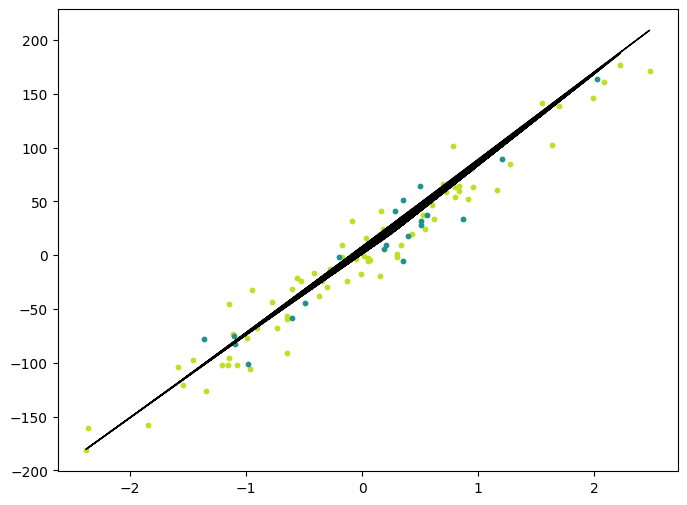
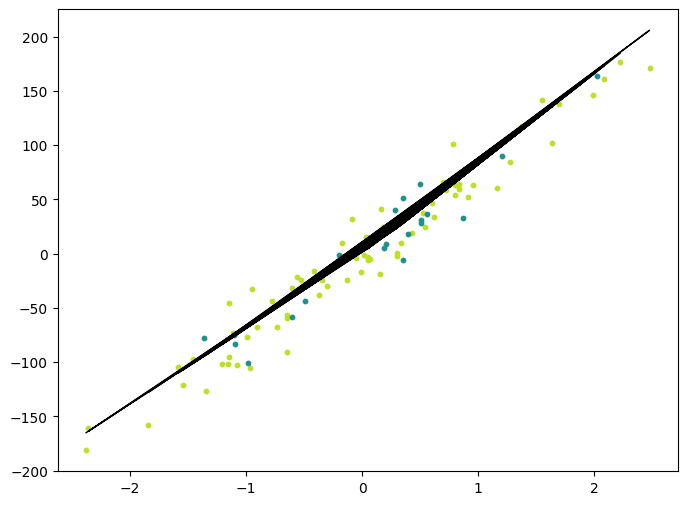
add logistic reg to notes

diff --git a/docs/notes/ml-algos-numpy-torch.html b/docs/notes/ml-algos-numpy-torch.html
@@ -207,17 +207,18 @@ pre > code.sourceCode > span > a:first-child::before { text-decoration: underlin
 <ul>
 <li>The goal of this is to practice building basic ML algorithms from scratch in numpy/PyTorch. I use <a href="https://www.youtube.com/playlist?list=PLqnslRFeH2Upcrywf-u2etjdxxkL8nl7E">Machine Learning from Scratch</a> series as a starting point, generally watching the first part of the video to review the setup, then building the algorithms out myself, looking at the repo for test cases/if stuck.</li>
 </ul>
-<div id="cell-2" class="cell" data-execution_count="65">
+<div id="cell-2" class="cell" data-execution_count="1">
 <div class="sourceCode cell-code" id="cb1"><pre class="sourceCode python code-with-copy"><code class="sourceCode python"><span id="cb1-1"><a href="#cb1-1" aria-hidden="true" tabindex="-1"></a><span class="im">import</span> numpy <span class="im">as</span> np</span>
 <span id="cb1-2"><a href="#cb1-2" aria-hidden="true" tabindex="-1"></a>np.random.seed(<span class="dv">42</span>)</span>
 <span id="cb1-3"><a href="#cb1-3" aria-hidden="true" tabindex="-1"></a><span class="im">import</span> matplotlib.pyplot <span class="im">as</span> plt</span>
 <span id="cb1-4"><a href="#cb1-4" aria-hidden="true" tabindex="-1"></a><span class="im">import</span> torch</span>
-<span id="cb1-5"><a href="#cb1-5" aria-hidden="true" tabindex="-1"></a><span class="im">from</span> sklearn <span class="im">import</span> datasets</span>
-<span id="cb1-6"><a href="#cb1-6" aria-hidden="true" tabindex="-1"></a><span class="im">from</span> sklearn.model_selection <span class="im">import</span> train_test_split</span>
-<span id="cb1-7"><a href="#cb1-7" aria-hidden="true" tabindex="-1"></a><span class="im">from</span> matplotlib.colors <span class="im">import</span> ListedColormap</span>
-<span id="cb1-8"><a href="#cb1-8" aria-hidden="true" tabindex="-1"></a><span class="im">import</span> collections</span>
-<span id="cb1-9"><a href="#cb1-9" aria-hidden="true" tabindex="-1"></a><span class="im">from</span> sklearn.datasets <span class="im">import</span> make_blobs</span>
-<span id="cb1-10"><a href="#cb1-10" aria-hidden="true" tabindex="-1"></a><span class="im">from</span> time <span class="im">import</span> perf_counter</span></code><button title="Copy to Clipboard" class="code-copy-button"><i class="bi"></i></button></pre></div>
+<span id="cb1-5"><a href="#cb1-5" aria-hidden="true" tabindex="-1"></a><span class="im">import</span> torch.nn <span class="im">as</span> nn</span>
+<span id="cb1-6"><a href="#cb1-6" aria-hidden="true" tabindex="-1"></a><span class="im">from</span> sklearn <span class="im">import</span> datasets</span>
+<span id="cb1-7"><a href="#cb1-7" aria-hidden="true" tabindex="-1"></a><span class="im">from</span> sklearn.model_selection <span class="im">import</span> train_test_split</span>
+<span id="cb1-8"><a href="#cb1-8" aria-hidden="true" tabindex="-1"></a><span class="im">from</span> matplotlib.colors <span class="im">import</span> ListedColormap</span>
+<span id="cb1-9"><a href="#cb1-9" aria-hidden="true" tabindex="-1"></a><span class="im">import</span> collections</span>
+<span id="cb1-10"><a href="#cb1-10" aria-hidden="true" tabindex="-1"></a><span class="im">from</span> sklearn.datasets <span class="im">import</span> make_blobs</span>
+<span id="cb1-11"><a href="#cb1-11" aria-hidden="true" tabindex="-1"></a><span class="im">from</span> time <span class="im">import</span> perf_counter</span></code><button title="Copy to Clipboard" class="code-copy-button"><i class="bi"></i></button></pre></div>
 </div>
 <section id="knn" class="level2">
 <h2 class="anchored" data-anchor-id="knn">KNN</h2>
@@ -973,22 +974,22 @@ Accuracy: 0.924751527892842</code></pre>
 <p>Thus, while the shapes may become mathematically compatible, the implicit behavior of broadcasting and element-wise operations fundamentally leads to differing gradient flows. Clarity in tensor shapes is incredibly important for ensuring that operations function as anticipated in deep learning frameworks like PyTorch.</p></li>
 <li><p>I had <code>loss = criterion(y_pred.view(-1),y_train)</code> without the .view(-1) at first, which led to just the intercept being estimated! (got a horizontal line as prediction). It seems that there’s are intricacies with broadcasting in loss calculations. It’s best to explicitly convert tensors to the right shape so that PyTorch computes the gradients correctly.</p></li>
 </ul>
-<div id="cell-36" class="cell" data-execution_count="139">
+<div id="cell-36" class="cell" data-execution_count="177">
 <div class="sourceCode cell-code" id="cb36"><pre class="sourceCode python code-with-copy"><code class="sourceCode python"><span id="cb36-1"><a href="#cb36-1" aria-hidden="true" tabindex="-1"></a><span class="im">import</span> torch.nn <span class="im">as</span> nn</span>
 <span id="cb36-2"><a href="#cb36-2" aria-hidden="true" tabindex="-1"></a><span class="kw">class</span> SimpleNN(nn.Module):</span>
 <span id="cb36-3"><a href="#cb36-3" aria-hidden="true" tabindex="-1"></a>    <span class="co">"""Can use torch.autograd automatic differentiation for gradient updates"""</span></span>
 <span id="cb36-4"><a href="#cb36-4" aria-hidden="true" tabindex="-1"></a>    <span class="kw">def</span> <span class="fu">__init__</span>(<span class="va">self</span>, input_dim, output_dim<span class="op">=</span><span class="dv">1</span>,hidden_dim <span class="op">=</span><span class="dv">10</span>):</span>
 <span id="cb36-5"><a href="#cb36-5" aria-hidden="true" tabindex="-1"></a>        <span class="bu">super</span>().<span class="fu">__init__</span>()</span>
 <span id="cb36-6"><a href="#cb36-6" aria-hidden="true" tabindex="-1"></a>        <span class="va">self</span>.ln1 <span class="op">=</span> nn.Linear(input_dim,hidden_dim)</span>
-<span id="cb36-7"><a href="#cb36-7" aria-hidden="true" tabindex="-1"></a>        <span class="va">self</span>.sigm <span class="op">=</span> nn.ReLU()</span>
+<span id="cb36-7"><a href="#cb36-7" aria-hidden="true" tabindex="-1"></a>        <span class="va">self</span>.relu <span class="op">=</span> nn.ReLU()</span>
 <span id="cb36-8"><a href="#cb36-8" aria-hidden="true" tabindex="-1"></a>        <span class="va">self</span>.ln2 <span class="op">=</span> nn.Linear(hidden_dim,output_dim)</span>
 <span id="cb36-9"><a href="#cb36-9" aria-hidden="true" tabindex="-1"></a></span>
 <span id="cb36-10"><a href="#cb36-10" aria-hidden="true" tabindex="-1"></a>    <span class="kw">def</span> forward(<span class="va">self</span>, X):</span>
 <span id="cb36-11"><a href="#cb36-11" aria-hidden="true" tabindex="-1"></a>        x <span class="op">=</span> <span class="va">self</span>.ln1(X)</span>
-<span id="cb36-12"><a href="#cb36-12" aria-hidden="true" tabindex="-1"></a>        x <span class="op">=</span> <span class="va">self</span>.ln2(<span class="va">self</span>.sigm(x))</span>
+<span id="cb36-12"><a href="#cb36-12" aria-hidden="true" tabindex="-1"></a>        x <span class="op">=</span> <span class="va">self</span>.ln2(<span class="va">self</span>.relu(x))</span>
 <span id="cb36-13"><a href="#cb36-13" aria-hidden="true" tabindex="-1"></a>        <span class="cf">return</span> x</span></code><button title="Copy to Clipboard" class="code-copy-button"><i class="bi"></i></button></pre></div>
 </div>
-<div id="cell-37" class="cell" data-execution_count="174">
+<div id="cell-37" class="cell" data-execution_count="178">
 <div class="sourceCode cell-code" id="cb37"><pre class="sourceCode python code-with-copy"><code class="sourceCode python"><span id="cb37-1"><a href="#cb37-1" aria-hidden="true" tabindex="-1"></a>model <span class="op">=</span> SimpleNN(input_dim<span class="op">=</span>X.shape[<span class="dv">1</span>])</span>
 <span id="cb37-2"><a href="#cb37-2" aria-hidden="true" tabindex="-1"></a></span>
 <span id="cb37-3"><a href="#cb37-3" aria-hidden="true" tabindex="-1"></a><span class="co"># Training loop</span></span>
@@ -1023,8 +1024,8 @@ Accuracy: 0.924751527892842</code></pre>
 <span id="cb37-32"><a href="#cb37-32" aria-hidden="true" tabindex="-1"></a>plt.plot(X.detach().numpy(), y_pred_line, color<span class="op">=</span><span class="st">"black"</span>, linewidth<span class="op">=</span><span class="dv">1</span>, label<span class="op">=</span><span class="st">"Prediction"</span>)</span>
 <span id="cb37-33"><a href="#cb37-33" aria-hidden="true" tabindex="-1"></a>plt.show()</span></code><button title="Copy to Clipboard" class="code-copy-button"><i class="bi"></i></button></pre></div>
 <div class="cell-output cell-output-stdout">
-<pre><code>MSE: 341.54935
-Accuracy: 0.9159475311667739</code></pre>
+<pre><code>MSE: 341.73175
+Accuracy: 0.9159026386036382</code></pre>
 </div>
 <div class="cell-output cell-output-display">
 <div>
@@ -1032,6 +1033,117 @@ Accuracy: 0.9159475311667739</code></pre>
 <p><img src="ml-algos-numpy-torch_files/figure-html/cell-25-output-2.png" class="img-fluid figure-img"></p>
 </figure>
 </div>
+</div>
+</div>
+</section>
+<section id="logistic-regression" class="level2">
+<h2 class="anchored" data-anchor-id="logistic-regression">Logistic Regression</h2>
+<ul>
+<li>Gradient updates are same as in linear regression, but since the targets are 0/1, convert predictions to probabilities via sigmoid.</li>
+</ul>
+<div id="cell-40" class="cell" data-execution_count="162">
+<div class="sourceCode cell-code" id="cb39"><pre class="sourceCode python code-with-copy"><code class="sourceCode python"><span id="cb39-1"><a href="#cb39-1" aria-hidden="true" tabindex="-1"></a><span class="kw">class</span> LogisticRegression:</span>
+<span id="cb39-2"><a href="#cb39-2" aria-hidden="true" tabindex="-1"></a>    <span class="kw">def</span> <span class="fu">__init__</span>(<span class="va">self</span>, learning_rate<span class="op">=</span><span class="fl">0.001</span>, n_iters<span class="op">=</span><span class="dv">1000</span>):</span>
+<span id="cb39-3"><a href="#cb39-3" aria-hidden="true" tabindex="-1"></a>        <span class="va">self</span>.lr <span class="op">=</span> learning_rate</span>
+<span id="cb39-4"><a href="#cb39-4" aria-hidden="true" tabindex="-1"></a>        <span class="va">self</span>.n_iters <span class="op">=</span> n_iters</span>
+<span id="cb39-5"><a href="#cb39-5" aria-hidden="true" tabindex="-1"></a>        <span class="va">self</span>.weights <span class="op">=</span> <span class="va">None</span></span>
+<span id="cb39-6"><a href="#cb39-6" aria-hidden="true" tabindex="-1"></a>        <span class="va">self</span>.bias <span class="op">=</span> <span class="va">None</span></span>
+<span id="cb39-7"><a href="#cb39-7" aria-hidden="true" tabindex="-1"></a></span>
+<span id="cb39-8"><a href="#cb39-8" aria-hidden="true" tabindex="-1"></a>    <span class="kw">def</span> fit(<span class="va">self</span>, X, y):</span>
+<span id="cb39-9"><a href="#cb39-9" aria-hidden="true" tabindex="-1"></a>       <span class="va">self</span>.n_examples, <span class="va">self</span>.n_feats <span class="op">=</span> X.shape</span>
+<span id="cb39-10"><a href="#cb39-10" aria-hidden="true" tabindex="-1"></a>       <span class="va">self</span>.weights <span class="op">=</span> np.zeros(<span class="va">self</span>.n_feats)</span>
+<span id="cb39-11"><a href="#cb39-11" aria-hidden="true" tabindex="-1"></a>       <span class="va">self</span>.bias <span class="op">=</span> <span class="dv">0</span></span>
+<span id="cb39-12"><a href="#cb39-12" aria-hidden="true" tabindex="-1"></a>       <span class="cf">for</span> _ <span class="kw">in</span> <span class="bu">range</span>(<span class="va">self</span>.n_iters):</span>
+<span id="cb39-13"><a href="#cb39-13" aria-hidden="true" tabindex="-1"></a>           y_pred <span class="op">=</span> <span class="va">self</span>._sigmoid(X<span class="op">@</span>self.weights<span class="op">+</span><span class="va">self</span>.bias)</span>
+<span id="cb39-14"><a href="#cb39-14" aria-hidden="true" tabindex="-1"></a></span>
+<span id="cb39-15"><a href="#cb39-15" aria-hidden="true" tabindex="-1"></a>           dw <span class="op">=</span> (<span class="dv">2</span><span class="op">/</span><span class="va">self</span>.n_examples)<span class="op">*</span>np.dot(X.T,y_pred<span class="op">-</span>y)</span>
+<span id="cb39-16"><a href="#cb39-16" aria-hidden="true" tabindex="-1"></a>           db <span class="op">=</span> (<span class="dv">2</span><span class="op">/</span><span class="va">self</span>.n_examples)<span class="op">*</span>np.<span class="bu">sum</span>(y_pred<span class="op">-</span>y)</span>
+<span id="cb39-17"><a href="#cb39-17" aria-hidden="true" tabindex="-1"></a></span>
+<span id="cb39-18"><a href="#cb39-18" aria-hidden="true" tabindex="-1"></a>           <span class="va">self</span>.weights <span class="op">-=</span> <span class="va">self</span>.lr <span class="op">*</span> dw</span>
+<span id="cb39-19"><a href="#cb39-19" aria-hidden="true" tabindex="-1"></a>           <span class="va">self</span>.bias <span class="op">-=</span> <span class="va">self</span>.lr <span class="op">*</span> db</span>
+<span id="cb39-20"><a href="#cb39-20" aria-hidden="true" tabindex="-1"></a></span>
+<span id="cb39-21"><a href="#cb39-21" aria-hidden="true" tabindex="-1"></a>    <span class="kw">def</span> predict(<span class="va">self</span>, X):</span>
+<span id="cb39-22"><a href="#cb39-22" aria-hidden="true" tabindex="-1"></a>        probs <span class="op">=</span> <span class="va">self</span>._sigmoid(X<span class="op">@</span>self.weights<span class="op">+</span><span class="va">self</span>.bias)</span>
+<span id="cb39-23"><a href="#cb39-23" aria-hidden="true" tabindex="-1"></a>        <span class="cf">return</span> np.array([<span class="dv">1</span> <span class="cf">if</span> prob <span class="op">&gt;</span> <span class="fl">0.5</span> <span class="cf">else</span> <span class="dv">0</span> <span class="cf">for</span> prob <span class="kw">in</span> probs ])</span>
+<span id="cb39-24"><a href="#cb39-24" aria-hidden="true" tabindex="-1"></a></span>
+<span id="cb39-25"><a href="#cb39-25" aria-hidden="true" tabindex="-1"></a>    <span class="kw">def</span> _sigmoid(<span class="va">self</span>, x):</span>
+<span id="cb39-26"><a href="#cb39-26" aria-hidden="true" tabindex="-1"></a>        <span class="cf">return</span> <span class="dv">1</span><span class="op">/</span>(<span class="dv">1</span><span class="op">+</span>np.exp(<span class="op">-</span>x))</span>
+<span id="cb39-27"><a href="#cb39-27" aria-hidden="true" tabindex="-1"></a></span>
+<span id="cb39-28"><a href="#cb39-28" aria-hidden="true" tabindex="-1"></a></span>
+<span id="cb39-29"><a href="#cb39-29" aria-hidden="true" tabindex="-1"></a><span class="co"># Testing</span></span>
+<span id="cb39-30"><a href="#cb39-30" aria-hidden="true" tabindex="-1"></a><span class="cf">if</span> <span class="va">__name__</span> <span class="op">==</span> <span class="st">"__main__"</span>:</span>
+<span id="cb39-31"><a href="#cb39-31" aria-hidden="true" tabindex="-1"></a>    <span class="co"># Imports</span></span>
+<span id="cb39-32"><a href="#cb39-32" aria-hidden="true" tabindex="-1"></a>    <span class="im">from</span> sklearn.model_selection <span class="im">import</span> train_test_split</span>
+<span id="cb39-33"><a href="#cb39-33" aria-hidden="true" tabindex="-1"></a>    <span class="im">from</span> sklearn <span class="im">import</span> datasets</span>
+<span id="cb39-34"><a href="#cb39-34" aria-hidden="true" tabindex="-1"></a></span>
+<span id="cb39-35"><a href="#cb39-35" aria-hidden="true" tabindex="-1"></a>    <span class="kw">def</span> accuracy(y_true, y_pred):</span>
+<span id="cb39-36"><a href="#cb39-36" aria-hidden="true" tabindex="-1"></a>        accuracy <span class="op">=</span> np.<span class="bu">sum</span>(y_true <span class="op">==</span> y_pred) <span class="op">/</span> <span class="bu">len</span>(y_true)</span>
+<span id="cb39-37"><a href="#cb39-37" aria-hidden="true" tabindex="-1"></a>        <span class="cf">return</span> accuracy</span>
+<span id="cb39-38"><a href="#cb39-38" aria-hidden="true" tabindex="-1"></a></span>
+<span id="cb39-39"><a href="#cb39-39" aria-hidden="true" tabindex="-1"></a>    bc <span class="op">=</span> datasets.load_breast_cancer()</span>
+<span id="cb39-40"><a href="#cb39-40" aria-hidden="true" tabindex="-1"></a>    X, y <span class="op">=</span> bc.data, bc.target</span>
+<span id="cb39-41"><a href="#cb39-41" aria-hidden="true" tabindex="-1"></a>    X_train, X_test, y_train, y_test <span class="op">=</span> train_test_split(</span>
+<span id="cb39-42"><a href="#cb39-42" aria-hidden="true" tabindex="-1"></a>        X, y, test_size<span class="op">=</span><span class="fl">0.2</span>, random_state<span class="op">=</span><span class="dv">1234</span></span>
+<span id="cb39-43"><a href="#cb39-43" aria-hidden="true" tabindex="-1"></a>    )</span>
+<span id="cb39-44"><a href="#cb39-44" aria-hidden="true" tabindex="-1"></a></span>
+<span id="cb39-45"><a href="#cb39-45" aria-hidden="true" tabindex="-1"></a>    regressor <span class="op">=</span> LogisticRegression(learning_rate<span class="op">=</span><span class="fl">0.00005</span>, n_iters<span class="op">=</span><span class="dv">1000</span>) <span class="co"># think they forgot 2x in grad updates, halving lr to get same accuracy</span></span>
+<span id="cb39-46"><a href="#cb39-46" aria-hidden="true" tabindex="-1"></a>    regressor.fit(X_train, y_train)</span>
+<span id="cb39-47"><a href="#cb39-47" aria-hidden="true" tabindex="-1"></a>    predictions <span class="op">=</span> regressor.predict(X_test)</span>
+<span id="cb39-48"><a href="#cb39-48" aria-hidden="true" tabindex="-1"></a></span>
+<span id="cb39-49"><a href="#cb39-49" aria-hidden="true" tabindex="-1"></a>    <span class="bu">print</span>(<span class="st">"LR classification accuracy:"</span>, accuracy(y_test, predictions))</span></code><button title="Copy to Clipboard" class="code-copy-button"><i class="bi"></i></button></pre></div>
+<div class="cell-output cell-output-stdout">
+<pre><code>LR classification accuracy: 0.9298245614035088</code></pre>
+</div>
+</div>
+<ul>
+<li>PyTorch version is not very numerically stable, increased precision to <code>torch.float64</code> to match that of numpy, experimented with different random seeds until found one of the better ones. <code>BCEWithLogitsLoss</code> may help the issue in the future. Either way, there seems to be a about 3 different ‘valleys’ where the algorithm ends up ‘converging’, likely local minima on the loss surface.</li>
+</ul>
+<div id="cell-42" class="cell" data-execution_count="30">
+<div class="sourceCode cell-code" id="cb41"><pre class="sourceCode python code-with-copy"><code class="sourceCode python"><span id="cb41-1"><a href="#cb41-1" aria-hidden="true" tabindex="-1"></a><span class="kw">class</span> LogisticRegressionTorch(nn.Module):</span>
+<span id="cb41-2"><a href="#cb41-2" aria-hidden="true" tabindex="-1"></a>    <span class="kw">def</span> <span class="fu">__init__</span>(<span class="va">self</span>, input_dims):</span>
+<span id="cb41-3"><a href="#cb41-3" aria-hidden="true" tabindex="-1"></a>        <span class="bu">super</span>().<span class="fu">__init__</span>()</span>
+<span id="cb41-4"><a href="#cb41-4" aria-hidden="true" tabindex="-1"></a>        <span class="va">self</span>.ff <span class="op">=</span> nn.Linear(input_dims,<span class="dv">1</span>,dtype<span class="op">=</span>torch.float64)</span>
+<span id="cb41-5"><a href="#cb41-5" aria-hidden="true" tabindex="-1"></a>        <span class="va">self</span>.sigm <span class="op">=</span> nn.Sigmoid()</span>
+<span id="cb41-6"><a href="#cb41-6" aria-hidden="true" tabindex="-1"></a></span>
+<span id="cb41-7"><a href="#cb41-7" aria-hidden="true" tabindex="-1"></a>    <span class="kw">def</span> forward(<span class="va">self</span>, X):</span>
+<span id="cb41-8"><a href="#cb41-8" aria-hidden="true" tabindex="-1"></a>       <span class="cf">return</span> <span class="va">self</span>.sigm(<span class="va">self</span>.ff(X))</span>
+<span id="cb41-9"><a href="#cb41-9" aria-hidden="true" tabindex="-1"></a></span>
+<span id="cb41-10"><a href="#cb41-10" aria-hidden="true" tabindex="-1"></a></span>
+<span id="cb41-11"><a href="#cb41-11" aria-hidden="true" tabindex="-1"></a><span class="co"># Imports</span></span>
+<span id="cb41-12"><a href="#cb41-12" aria-hidden="true" tabindex="-1"></a><span class="im">from</span> sklearn.model_selection <span class="im">import</span> train_test_split</span>
+<span id="cb41-13"><a href="#cb41-13" aria-hidden="true" tabindex="-1"></a><span class="im">from</span> sklearn <span class="im">import</span> datasets</span>
+<span id="cb41-14"><a href="#cb41-14" aria-hidden="true" tabindex="-1"></a></span>
+<span id="cb41-15"><a href="#cb41-15" aria-hidden="true" tabindex="-1"></a></span>
+<span id="cb41-16"><a href="#cb41-16" aria-hidden="true" tabindex="-1"></a>bc <span class="op">=</span> datasets.load_breast_cancer()</span>
+<span id="cb41-17"><a href="#cb41-17" aria-hidden="true" tabindex="-1"></a>X, y <span class="op">=</span> torch.tensor(bc.data,dtype <span class="op">=</span> torch.float64), torch.tensor(bc.target, dtype <span class="op">=</span> torch.float64).view(<span class="op">-</span><span class="dv">1</span>,<span class="dv">1</span>)</span>
+<span id="cb41-18"><a href="#cb41-18" aria-hidden="true" tabindex="-1"></a></span>
+<span id="cb41-19"><a href="#cb41-19" aria-hidden="true" tabindex="-1"></a>X_train, X_test, y_train, y_test <span class="op">=</span> train_test_split(</span>
+<span id="cb41-20"><a href="#cb41-20" aria-hidden="true" tabindex="-1"></a>    X, y, test_size<span class="op">=</span><span class="fl">0.2</span>, random_state<span class="op">=</span><span class="dv">1234</span></span>
+<span id="cb41-21"><a href="#cb41-21" aria-hidden="true" tabindex="-1"></a>)</span>
+<span id="cb41-22"><a href="#cb41-22" aria-hidden="true" tabindex="-1"></a>torch.manual_seed(<span class="dv">7777777</span>) <span class="co"># a bit unstable, depending on random seed, this is one of the better ones</span></span>
+<span id="cb41-23"><a href="#cb41-23" aria-hidden="true" tabindex="-1"></a>n_iters, lr <span class="op">=</span> <span class="dv">10000</span>, <span class="fl">.00005</span></span>
+<span id="cb41-24"><a href="#cb41-24" aria-hidden="true" tabindex="-1"></a>n_examples, n_feats <span class="op">=</span> X.shape</span>
+<span id="cb41-25"><a href="#cb41-25" aria-hidden="true" tabindex="-1"></a>log_reg <span class="op">=</span> LogisticRegressionTorch(n_feats)</span>
+<span id="cb41-26"><a href="#cb41-26" aria-hidden="true" tabindex="-1"></a>loss_fn <span class="op">=</span> nn.BCELoss() <span class="co"># may consider nn.BCEWithLogitsLoss() for numeric stability</span></span>
+<span id="cb41-27"><a href="#cb41-27" aria-hidden="true" tabindex="-1"></a>optimizer <span class="op">=</span> torch.optim.SGD(log_reg.parameters(),lr)</span>
+<span id="cb41-28"><a href="#cb41-28" aria-hidden="true" tabindex="-1"></a><span class="cf">for</span> _ <span class="kw">in</span> <span class="bu">range</span>(n_iters):</span>
+<span id="cb41-29"><a href="#cb41-29" aria-hidden="true" tabindex="-1"></a>    optimizer.zero_grad()</span>
+<span id="cb41-30"><a href="#cb41-30" aria-hidden="true" tabindex="-1"></a>    y_pred <span class="op">=</span> log_reg(X_train).view(<span class="op">-</span><span class="dv">1</span>,<span class="dv">1</span>)</span>
+<span id="cb41-31"><a href="#cb41-31" aria-hidden="true" tabindex="-1"></a>    loss <span class="op">=</span> loss_fn(y_pred,y_train)</span>
+<span id="cb41-32"><a href="#cb41-32" aria-hidden="true" tabindex="-1"></a>    loss.backward()</span>
+<span id="cb41-33"><a href="#cb41-33" aria-hidden="true" tabindex="-1"></a>    optimizer.step()</span>
+<span id="cb41-34"><a href="#cb41-34" aria-hidden="true" tabindex="-1"></a></span>
+<span id="cb41-35"><a href="#cb41-35" aria-hidden="true" tabindex="-1"></a><span class="cf">with</span> torch.no_grad():</span>
+<span id="cb41-36"><a href="#cb41-36" aria-hidden="true" tabindex="-1"></a>    y_pred_test <span class="op">=</span> log_reg(X_test)</span>
+<span id="cb41-37"><a href="#cb41-37" aria-hidden="true" tabindex="-1"></a>    y_pred_test_class <span class="op">=</span> y_pred_test.<span class="bu">round</span>()</span>
+<span id="cb41-38"><a href="#cb41-38" aria-hidden="true" tabindex="-1"></a>    <span class="bu">print</span>(<span class="bu">list</span>(<span class="bu">zip</span>(y_pred_test_class,y_test)))</span>
+<span id="cb41-39"><a href="#cb41-39" aria-hidden="true" tabindex="-1"></a></span>
+<span id="cb41-40"><a href="#cb41-40" aria-hidden="true" tabindex="-1"></a>correct <span class="op">=</span> (y_pred_test_class<span class="op">==</span>y_test).<span class="bu">float</span>()</span>
+<span id="cb41-41"><a href="#cb41-41" aria-hidden="true" tabindex="-1"></a>accuracy <span class="op">=</span> correct.<span class="bu">sum</span>()<span class="op">/</span><span class="bu">len</span>(correct)</span>
+<span id="cb41-42"><a href="#cb41-42" aria-hidden="true" tabindex="-1"></a><span class="bu">print</span>(<span class="st">"LR classification accuracy:"</span>, accuracy.item())</span></code><button title="Copy to Clipboard" class="code-copy-button"><i class="bi"></i></button></pre></div>
+<div class="cell-output cell-output-stdout">
+<pre><code>[(tensor([1.], dtype=torch.float64), tensor([1.], dtype=torch.float64)), (tensor([1.], dtype=torch.float64), tensor([1.], dtype=torch.float64)), (tensor([1.], dtype=torch.float64), tensor([1.], dtype=torch.float64)), (tensor([1.], dtype=torch.float64), tensor([1.], dtype=torch.float64)), (tensor([1.], dtype=torch.float64), tensor([1.], dtype=torch.float64)), (tensor([1.], dtype=torch.float64), tensor([1.], dtype=torch.float64)), (tensor([0.], dtype=torch.float64), tensor([0.], dtype=torch.float64)), (tensor([1.], dtype=torch.float64), tensor([1.], dtype=torch.float64)), (tensor([0.], dtype=torch.float64), tensor([0.], dtype=torch.float64)), (tensor([0.], dtype=torch.float64), tensor([0.], dtype=torch.float64)), (tensor([0.], dtype=torch.float64), tensor([0.], dtype=torch.float64)), (tensor([1.], dtype=torch.float64), tensor([1.], dtype=torch.float64)), (tensor([1.], dtype=torch.float64), tensor([1.], dtype=torch.float64)), (tensor([1.], dtype=torch.float64), tensor([1.], dtype=torch.float64)), (tensor([1.], dtype=torch.float64), tensor([1.], dtype=torch.float64)), (tensor([0.], dtype=torch.float64), tensor([0.], dtype=torch.float64)), (tensor([1.], dtype=torch.float64), tensor([1.], dtype=torch.float64)), (tensor([1.], dtype=torch.float64), tensor([1.], dtype=torch.float64)), (tensor([1.], dtype=torch.float64), tensor([1.], dtype=torch.float64)), (tensor([0.], dtype=torch.float64), tensor([0.], dtype=torch.float64)), (tensor([1.], dtype=torch.float64), tensor([1.], dtype=torch.float64)), (tensor([0.], dtype=torch.float64), tensor([0.], dtype=torch.float64)), (tensor([0.], dtype=torch.float64), tensor([0.], dtype=torch.float64)), (tensor([0.], dtype=torch.float64), tensor([0.], dtype=torch.float64)), (tensor([0.], dtype=torch.float64), tensor([0.], dtype=torch.float64)), (tensor([0.], dtype=torch.float64), tensor([1.], dtype=torch.float64)), (tensor([0.], dtype=torch.float64), tensor([0.], dtype=torch.float64)), (tensor([1.], dtype=torch.float64), tensor([1.], dtype=torch.float64)), (tensor([1.], dtype=torch.float64), tensor([1.], dtype=torch.float64)), (tensor([1.], dtype=torch.float64), tensor([1.], dtype=torch.float64)), (tensor([1.], dtype=torch.float64), tensor([1.], dtype=torch.float64)), (tensor([1.], dtype=torch.float64), tensor([1.], dtype=torch.float64)), (tensor([0.], dtype=torch.float64), tensor([0.], dtype=torch.float64)), (tensor([1.], dtype=torch.float64), tensor([1.], dtype=torch.float64)), (tensor([1.], dtype=torch.float64), tensor([1.], dtype=torch.float64)), (tensor([1.], dtype=torch.float64), tensor([1.], dtype=torch.float64)), (tensor([1.], dtype=torch.float64), tensor([1.], dtype=torch.float64)), (tensor([0.], dtype=torch.float64), tensor([0.], dtype=torch.float64)), (tensor([0.], dtype=torch.float64), tensor([0.], dtype=torch.float64)), (tensor([1.], dtype=torch.float64), tensor([1.], dtype=torch.float64)), (tensor([0.], dtype=torch.float64), tensor([0.], dtype=torch.float64)), (tensor([1.], dtype=torch.float64), tensor([1.], dtype=torch.float64)), (tensor([0.], dtype=torch.float64), tensor([0.], dtype=torch.float64)), (tensor([1.], dtype=torch.float64), tensor([1.], dtype=torch.float64)), (tensor([1.], dtype=torch.float64), tensor([1.], dtype=torch.float64)), (tensor([1.], dtype=torch.float64), tensor([1.], dtype=torch.float64)), (tensor([1.], dtype=torch.float64), tensor([1.], dtype=torch.float64)), (tensor([0.], dtype=torch.float64), tensor([0.], dtype=torch.float64)), (tensor([0.], dtype=torch.float64), tensor([0.], dtype=torch.float64)), (tensor([1.], dtype=torch.float64), tensor([1.], dtype=torch.float64)), (tensor([1.], dtype=torch.float64), tensor([1.], dtype=torch.float64)), (tensor([1.], dtype=torch.float64), tensor([1.], dtype=torch.float64)), (tensor([1.], dtype=torch.float64), tensor([1.], dtype=torch.float64)), (tensor([0.], dtype=torch.float64), tensor([0.], dtype=torch.float64)), (tensor([0.], dtype=torch.float64), tensor([0.], dtype=torch.float64)), (tensor([1.], dtype=torch.float64), tensor([1.], dtype=torch.float64)), (tensor([1.], dtype=torch.float64), tensor([1.], dtype=torch.float64)), (tensor([1.], dtype=torch.float64), tensor([1.], dtype=torch.float64)), (tensor([1.], dtype=torch.float64), tensor([1.], dtype=torch.float64)), (tensor([0.], dtype=torch.float64), tensor([0.], dtype=torch.float64)), (tensor([1.], dtype=torch.float64), tensor([1.], dtype=torch.float64)), (tensor([1.], dtype=torch.float64), tensor([1.], dtype=torch.float64)), (tensor([1.], dtype=torch.float64), tensor([1.], dtype=torch.float64)), (tensor([1.], dtype=torch.float64), tensor([1.], dtype=torch.float64)), (tensor([1.], dtype=torch.float64), tensor([1.], dtype=torch.float64)), (tensor([0.], dtype=torch.float64), tensor([0.], dtype=torch.float64)), (tensor([0.], dtype=torch.float64), tensor([0.], dtype=torch.float64)), (tensor([1.], dtype=torch.float64), tensor([1.], dtype=torch.float64)), (tensor([1.], dtype=torch.float64), tensor([1.], dtype=torch.float64)), (tensor([0.], dtype=torch.float64), tensor([0.], dtype=torch.float64)), (tensor([1.], dtype=torch.float64), tensor([1.], dtype=torch.float64)), (tensor([0.], dtype=torch.float64), tensor([0.], dtype=torch.float64)), (tensor([1.], dtype=torch.float64), tensor([1.], dtype=torch.float64)), (tensor([1.], dtype=torch.float64), tensor([0.], dtype=torch.float64)), (tensor([1.], dtype=torch.float64), tensor([1.], dtype=torch.float64)), (tensor([1.], dtype=torch.float64), tensor([1.], dtype=torch.float64)), (tensor([1.], dtype=torch.float64), tensor([1.], dtype=torch.float64)), (tensor([0.], dtype=torch.float64), tensor([0.], dtype=torch.float64)), (tensor([1.], dtype=torch.float64), tensor([1.], dtype=torch.float64)), (tensor([0.], dtype=torch.float64), tensor([0.], dtype=torch.float64)), (tensor([1.], dtype=torch.float64), tensor([1.], dtype=torch.float64)), (tensor([1.], dtype=torch.float64), tensor([1.], dtype=torch.float64)), (tensor([1.], dtype=torch.float64), tensor([1.], dtype=torch.float64)), (tensor([1.], dtype=torch.float64), tensor([0.], dtype=torch.float64)), (tensor([0.], dtype=torch.float64), tensor([0.], dtype=torch.float64)), (tensor([0.], dtype=torch.float64), tensor([0.], dtype=torch.float64)), (tensor([0.], dtype=torch.float64), tensor([0.], dtype=torch.float64)), (tensor([0.], dtype=torch.float64), tensor([0.], dtype=torch.float64)), (tensor([0.], dtype=torch.float64), tensor([1.], dtype=torch.float64)), (tensor([1.], dtype=torch.float64), tensor([0.], dtype=torch.float64)), (tensor([1.], dtype=torch.float64), tensor([1.], dtype=torch.float64)), (tensor([1.], dtype=torch.float64), tensor([0.], dtype=torch.float64)), (tensor([1.], dtype=torch.float64), tensor([1.], dtype=torch.float64)), (tensor([0.], dtype=torch.float64), tensor([0.], dtype=torch.float64)), (tensor([1.], dtype=torch.float64), tensor([0.], dtype=torch.float64)), (tensor([1.], dtype=torch.float64), tensor([1.], dtype=torch.float64)), (tensor([1.], dtype=torch.float64), tensor([1.], dtype=torch.float64)), (tensor([1.], dtype=torch.float64), tensor([1.], dtype=torch.float64)), (tensor([1.], dtype=torch.float64), tensor([1.], dtype=torch.float64)), (tensor([1.], dtype=torch.float64), tensor([1.], dtype=torch.float64)), (tensor([0.], dtype=torch.float64), tensor([0.], dtype=torch.float64)), (tensor([0.], dtype=torch.float64), tensor([0.], dtype=torch.float64)), (tensor([1.], dtype=torch.float64), tensor([1.], dtype=torch.float64)), (tensor([1.], dtype=torch.float64), tensor([1.], dtype=torch.float64)), (tensor([0.], dtype=torch.float64), tensor([0.], dtype=torch.float64)), (tensor([1.], dtype=torch.float64), tensor([1.], dtype=torch.float64)), (tensor([1.], dtype=torch.float64), tensor([1.], dtype=torch.float64)), (tensor([0.], dtype=torch.float64), tensor([0.], dtype=torch.float64)), (tensor([0.], dtype=torch.float64), tensor([0.], dtype=torch.float64)), (tensor([1.], dtype=torch.float64), tensor([1.], dtype=torch.float64)), (tensor([0.], dtype=torch.float64), tensor([0.], dtype=torch.float64)), (tensor([0.], dtype=torch.float64), tensor([1.], dtype=torch.float64)), (tensor([0.], dtype=torch.float64), tensor([0.], dtype=torch.float64)), (tensor([0.], dtype=torch.float64), tensor([0.], dtype=torch.float64))]
+LR classification accuracy: 0.9298245906829834</code></pre>
 </div>
 </div>
 

diff --git a/docs/notes.html b/docs/notes.html
@@ -250,7 +250,7 @@ window.Quarto = {
 </tr>
 </thead>
 <tbody class="list">
-<tr data-index="0" data-categories="PyTorch" data-listing-date-sort="1727755200000" data-listing-file-modified-sort="1727275416074" data-listing-date-modified-sort="NaN" data-listing-reading-time-sort="4" data-listing-word-count-sort="729" data-listing-title-sort="ML Algorithms in Numpy and PyTorch" data-listing-filename-sort="ml-algos-numpy-torch.ipynb">
+<tr data-index="0" data-categories="PyTorch" data-listing-date-sort="1727755200000" data-listing-file-modified-sort="1727357504994" data-listing-date-modified-sort="NaN" data-listing-reading-time-sort="5" data-listing-word-count-sort="816" data-listing-title-sort="ML Algorithms in Numpy and PyTorch" data-listing-filename-sort="ml-algos-numpy-torch.ipynb">
 <td>
 <a href="./notes/ml-algos-numpy-torch.html" class="title listing-title">ML Algorithms in Numpy and PyTorch</a>
 </td>
